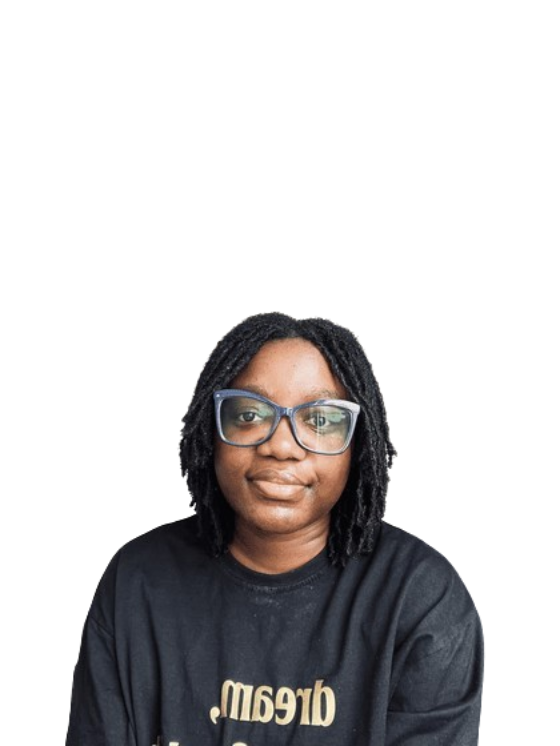
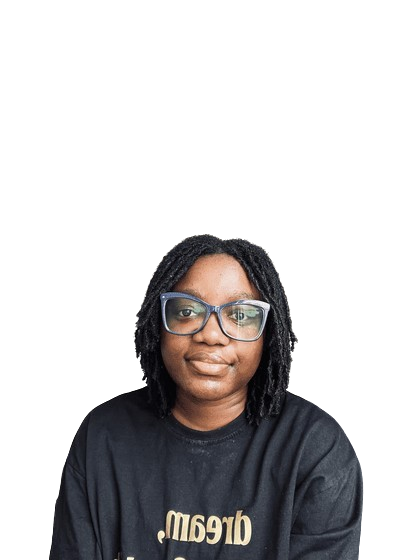
remove old profileImage

diff --git a/src/Components/Pages/Home/HomeMain/Circles.jsx b/src/Components/Pages/Home/HomeMain/Circles.jsx
@@ -1,6 +1,6 @@
 import React from "react";
 
-import profileImage from "../../../../Assets/Photos/profileImage-old.png";
+import profileImage from "../../../../Assets/Photos/profileImage.png";
 
 const Circles = () => {
   return (
